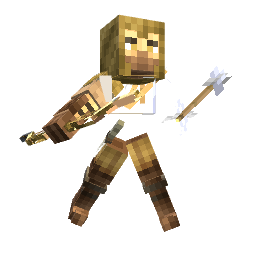
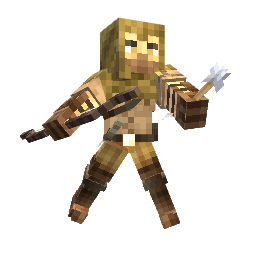
Fix img error

Changed region(s): [[0.0625, 0.0625, 0.9062, 0.9062]]

diff --git a/capture-sprites.html b/capture-sprites.html
@@ -361,34 +361,76 @@ function positionnerCamera(camera, cfg) {
 }
 
 /* ── Parser block model ── */
-function resolveTex(json) {
-  for (const v of Object.values(json.textures || {})) {
-    if (v && !v.startsWith('#')) {
-      const c = v.indexOf(':');
-      if (c < 0) return v;
-      return `img/compendium/${v.slice(0, c)}/textures/${v.slice(c + 1)}.png`;
-    }
+
+// Résout une clé de texture (ex: "#layer0") vers son chemin fichier
+// Retourne null si introuvable ou non résolvable
+function resolveTex(json, texKey) {
+  const textures = json.textures || {};
+
+  // Si on a une clé spécifique, on la résout (en suivant les redirections #ref)
+  let key = texKey;
+  if (key && key.startsWith('#')) key = key.slice(1);
+
+  const visited = new Set();
+  let val = key ? textures[key] : null;
+
+  // Pas de clé demandée → prendre la première valeur non-référence
+  if (!key) {
+    val = Object.values(textures).find(v => v && !v.startsWith('#')) || null;
   }
-  return null;
+
+  // Suivre les redirections (#ref → #autreRef → valeur finale)
+  while (val && val.startsWith('#')) {
+    const ref = val.slice(1);
+    if (visited.has(ref)) break;
+    visited.add(ref);
+    val = textures[ref] || null;
+  }
+
+  if (!val) return null;
+
+  // Convertir "namespace:path" → "img/compendium/namespace/textures/path.png"
+  const c = val.indexOf(':');
+  if (c >= 0) {
+    return `img/compendium/${val.slice(0, c)}/textures/${val.slice(c + 1)}.png`;
+  }
+  return val; // chemin direct
+}
+
+// Cache de textures partagé entre tous les fichiers JSON d'un même mob
+// clé = chemin résolu → THREE.Texture (ou promesse)
+const _texCache = new Map();
+
+function getOrLoadTex(src, texP) {
+  if (_texCache.has(src)) return _texCache.get(src);
+
+  const mat = new THREE.MeshLambertMaterial({
+    side: THREE.DoubleSide,
+    transparent: true,
+    alphaTest: .1
+  });
+
+  const p = new Promise((res, rej) => {
+    new THREE.TextureLoader().load(src, tex => {
+      tex.magFilter = tex.minFilter = THREE.NearestFilter;
+      mat.map = tex;
+      mat.needsUpdate = true;
+      res(mat);
+    }, undefined, err => {
+      console.warn('tex?', src, err);
+      rej(err);
+    });
+  });
+
+  texP.push(p);
+  _texCache.set(src, mat);
+  return mat;
 }
 
 function parseModel(json, texP) {
-  const g   = new THREE.Group();
-  const src = resolveTex(json);
-  let mat;
-  if (src) {
-    texP.push(new Promise((res, rej) => {
-      new THREE.TextureLoader().load(src, tex => {
-        tex.magFilter = tex.minFilter = THREE.NearestFilter;
-        mat.map = tex; mat.needsUpdate = true; res(tex);
-      }, undefined, err => { console.warn('tex?', src); rej(err); });
-    }));
-    mat = new THREE.MeshLambertMaterial({ side: THREE.DoubleSide, transparent: true, alphaTest: .1 });
-  } else {
-    mat = new THREE.MeshLambertMaterial({ color: 0x888888, side: THREE.DoubleSide });
-  }
-
+  const g = new THREE.Group();
   const S = 1 / 16;
+
   for (const el of (json.elements || [])) {
     const [x1, y1, z1] = el.from.map(v => v * S);
     const [x2, y2, z2] = el.to.map(v => v * S);
@@ -400,31 +442,62 @@ function parseModel(json, texP) {
       up:    [x1, y2, z1, x2, y2, z1, x2, y2, z2, x1, y2, z2],
       down:  [x1, y1, z2, x2, y1, z2, x2, y1, z1, x1, y1, z1],
     };
-    const pos = [], uvs = [], idx = []; let vi = 0;
+
+    // Chaque face peut avoir sa propre texture → on regroupe les faces par matériau
+    // pour minimiser le nombre de Mesh (une geo multi-matériaux par élément)
+    const facesByTex = new Map(); // srcTex → { positions, uvs, indices }
+
     for (const [fn, fi] of Object.entries(el.faces || {})) {
       const v = fd[fn]; if (!v) continue;
-      for (let i = 0; i < 12; i++) pos.push(v[i]);
+
+      // Résoudre la texture de cette face spécifiquement
+      const texKey = fi.texture || null; // ex: "#layer0", "#overlay", null
+      const src    = resolveTex(json, texKey);
+
+      if (!facesByTex.has(src)) facesByTex.set(src, { pos: [], uvs: [], idx: [], vi: 0 });
+      const bucket = facesByTex.get(src);
+
+      for (let i = 0; i < 12; i++) bucket.pos.push(v[i]);
+
       const [u1, v1, u2, v2] = fi.uv, r = fi.rotation || 0;
       let fu = [u1/16, 1-v1/16, u2/16, 1-v1/16, u2/16, 1-v2/16, u1/16, 1-v2/16];
       if (r === 90)  fu = [fu[6], fu[7], fu[0], fu[1], fu[2], fu[3], fu[4], fu[5]];
       if (r === 180) fu = [fu[4], fu[5], fu[6], fu[7], fu[0], fu[1], fu[2], fu[3]];
       if (r === 270) fu = [fu[2], fu[3], fu[4], fu[5], fu[6], fu[7], fu[0], fu[1]];
-      for (let i = 0; i < 8; i++) uvs.push(fu[i]);
-      idx.push(vi, vi+1, vi+2, vi, vi+2, vi+3); vi += 4;
+      for (let i = 0; i < 8; i++) bucket.uvs.push(fu[i]);
+
+      const vi = bucket.vi;
+      bucket.idx.push(vi, vi+1, vi+2, vi, vi+2, vi+3);
+      bucket.vi += 4;
     }
-    const geo = new THREE.BufferGeometry();
-    geo.setAttribute('position', new THREE.Float32BufferAttribute(pos, 3));
-    geo.setAttribute('uv',       new THREE.Float32BufferAttribute(uvs, 2));
-    geo.setIndex(idx); geo.computeVertexNormals();
-    const mesh = new THREE.Mesh(geo, mat);
+
+    // Créer un Mesh par texture utilisée dans cet élément
+    const meshes = [];
+    for (const [src, bucket] of facesByTex) {
+      const mat = src
+        ? getOrLoadTex(src, texP)
+        : new THREE.MeshLambertMaterial({ color: 0x888888, side: THREE.DoubleSide });
+
+      const geo = new THREE.BufferGeometry();
+      geo.setAttribute('position', new THREE.Float32BufferAttribute(bucket.pos, 3));
+      geo.setAttribute('uv',       new THREE.Float32BufferAttribute(bucket.uvs, 2));
+      geo.setIndex(bucket.idx);
+      geo.computeVertexNormals();
+      meshes.push(new THREE.Mesh(geo, mat));
+    }
+
+    // Appliquer la rotation de l'élément (pivot) à tous les meshes
     if (el.rotation) {
       const { origin, angle, axis } = el.rotation;
       const [ox, oy, oz] = origin.map(v => v * S);
       const piv = new THREE.Object3D();
       piv.position.set(ox, oy, oz);
       piv.rotation[axis] = THREE.MathUtils.degToRad(angle);
-      mesh.position.set(-ox, -oy, -oz); piv.add(mesh); g.add(piv);
-    } else { g.add(mesh); }
+      for (const mesh of meshes) { mesh.position.set(-ox, -oy, -oz); piv.add(mesh); }
+      g.add(piv);
+    } else {
+      for (const mesh of meshes) g.add(mesh);
+    }
   }
   return g;
 }
@@ -468,6 +541,9 @@ async function capture(mob, size) {
     scene.remove(p);
     p.traverse(c => { if (c.isMesh) c.geometry.dispose(); });
   });
+  // Libérer les textures GPU et vider le cache après chaque mob
+  _texCache.forEach(mat => { if (mat.map) mat.map.dispose(); mat.dispose(); });
+  _texCache.clear();
   return url;
 }
 

diff --git a/Bestiaire/mob_data.js b/Bestiaire/mob_data.js
@@ -1393,9 +1393,9 @@ const MOBS = [
 		morceaux: [
 			{
 				fichier: '../img/compendium/modelengine/models/em_bandit_c1/head.json',
-				position: [0.7034, 1.2403, 0.1781],
-				rotation: [0, -2.6965, 0],
-				scale: 1
+        position: [0.7034, 1.1852, 0.1781],
+        rotation: [0, -2.6965, 0],
+        scale: 1
 			},
 			{
 				fichier: '../img/compendium/modelengine/models/em_bandit_c1/hip.json',
